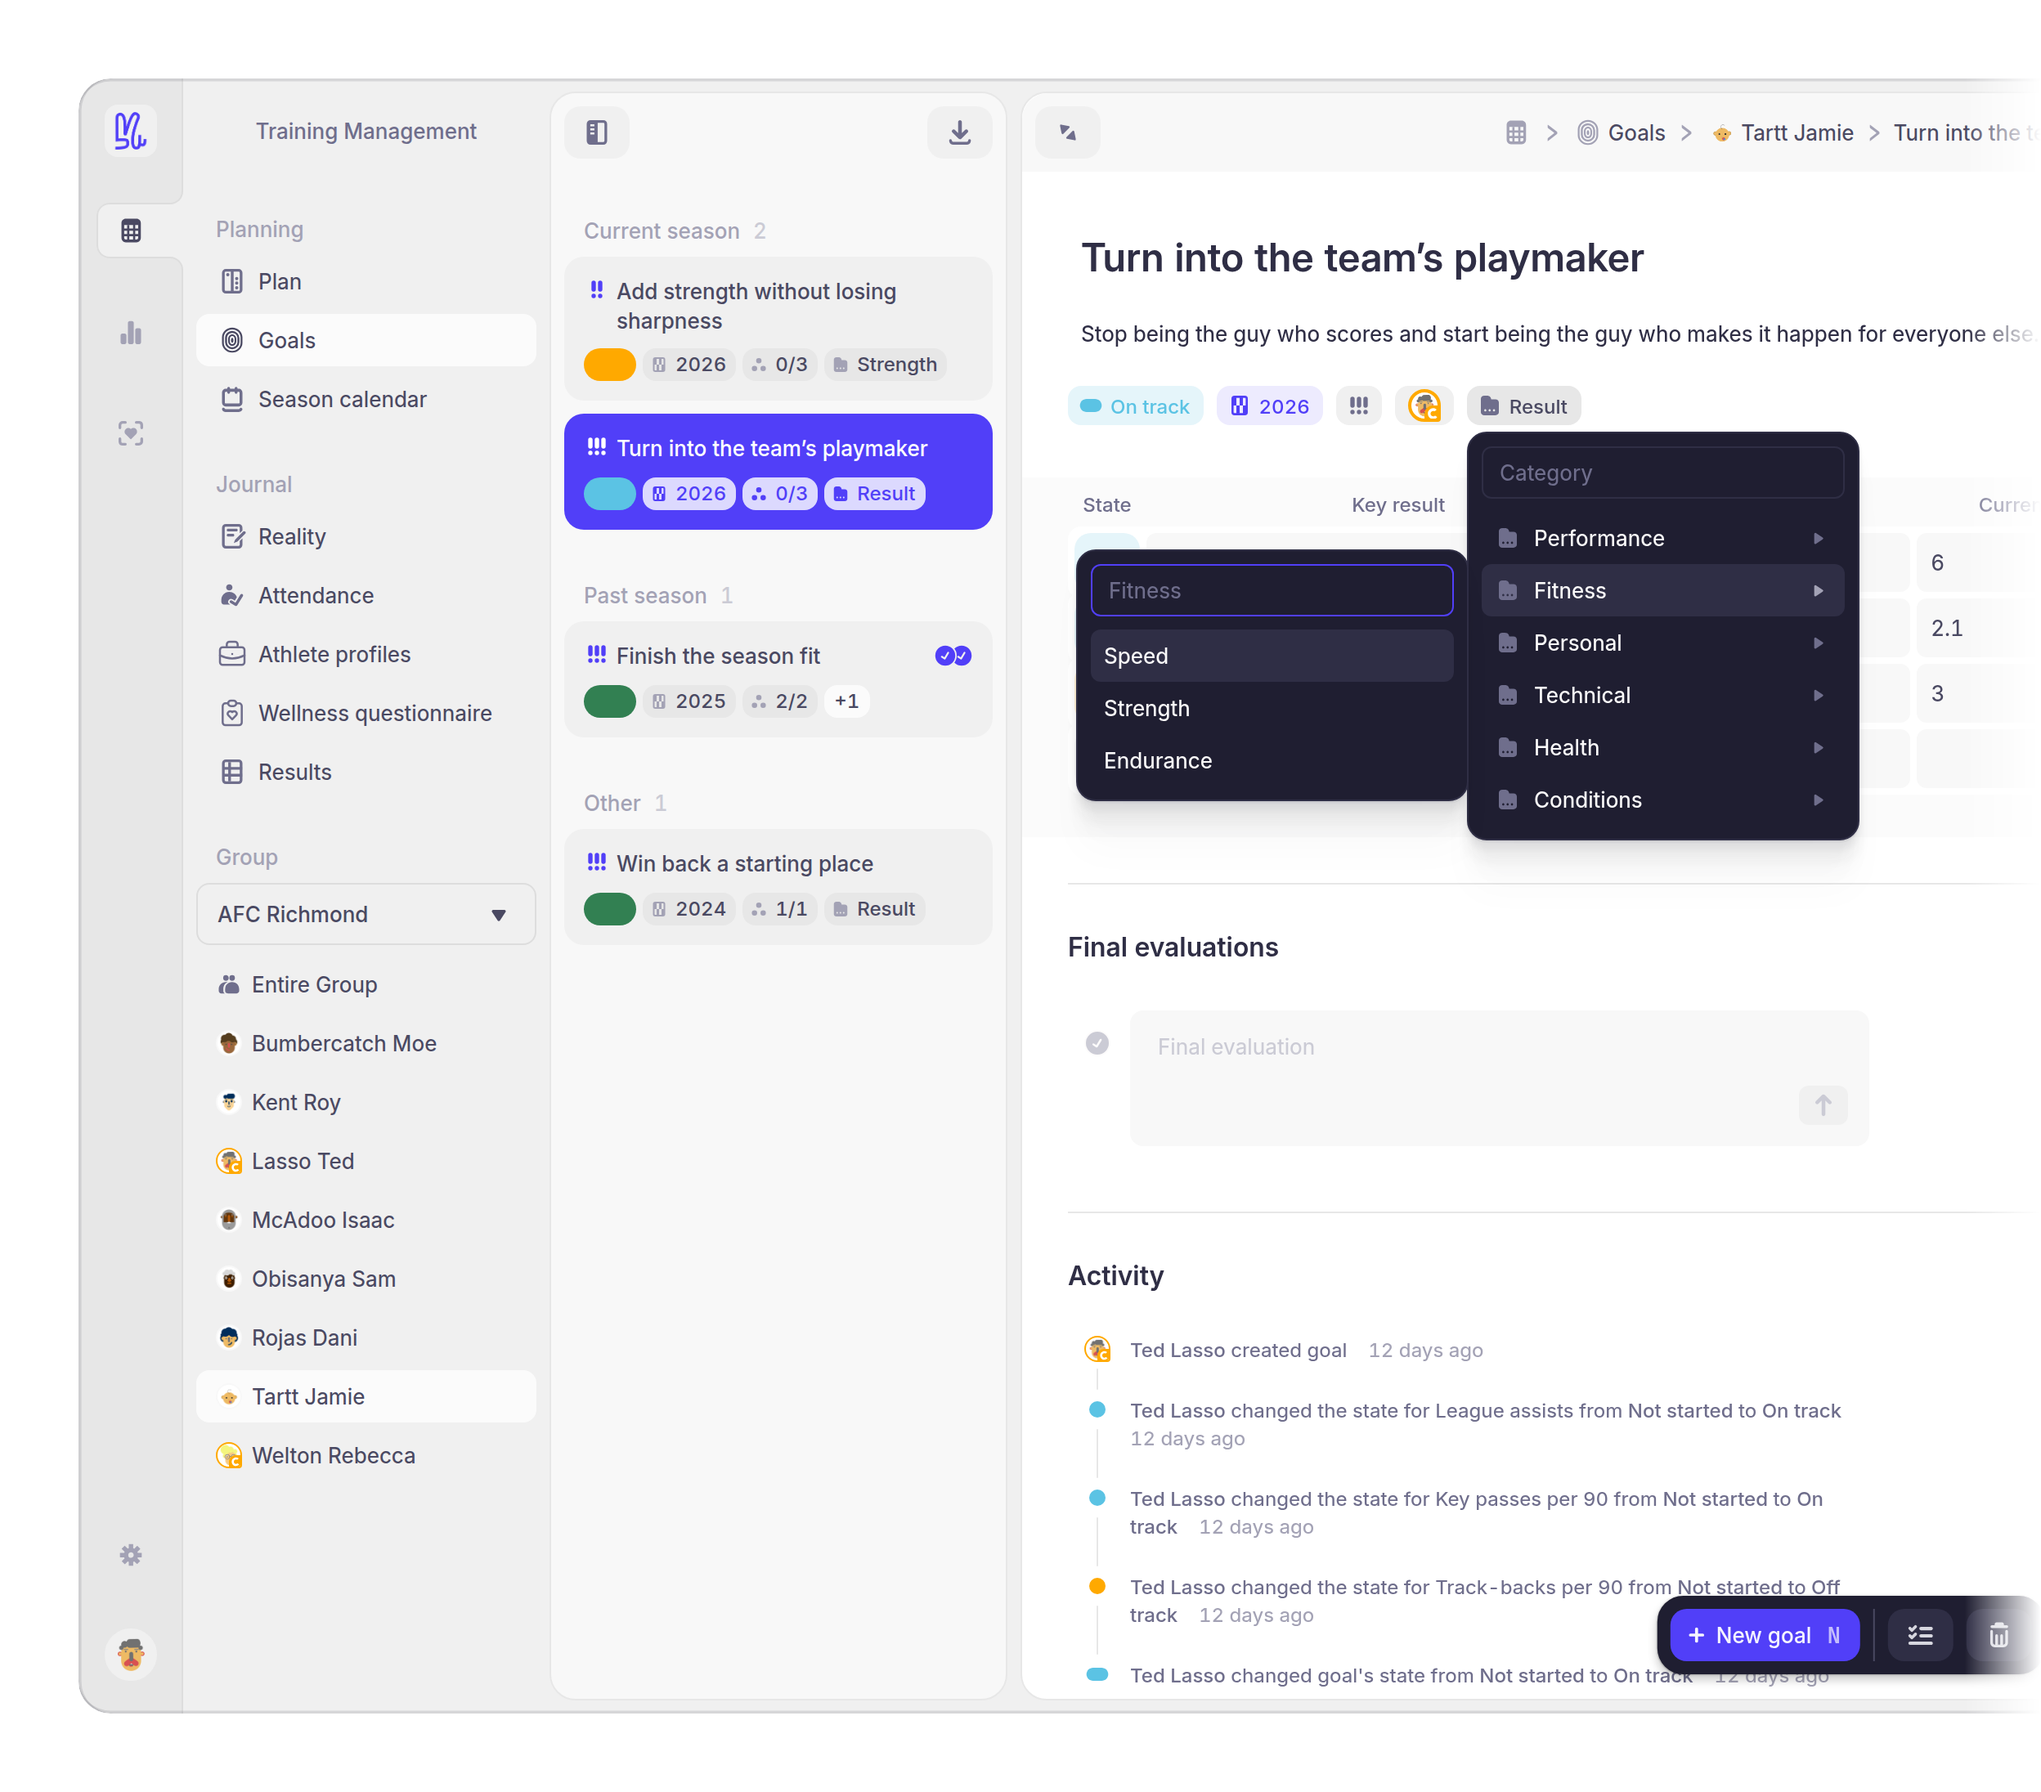
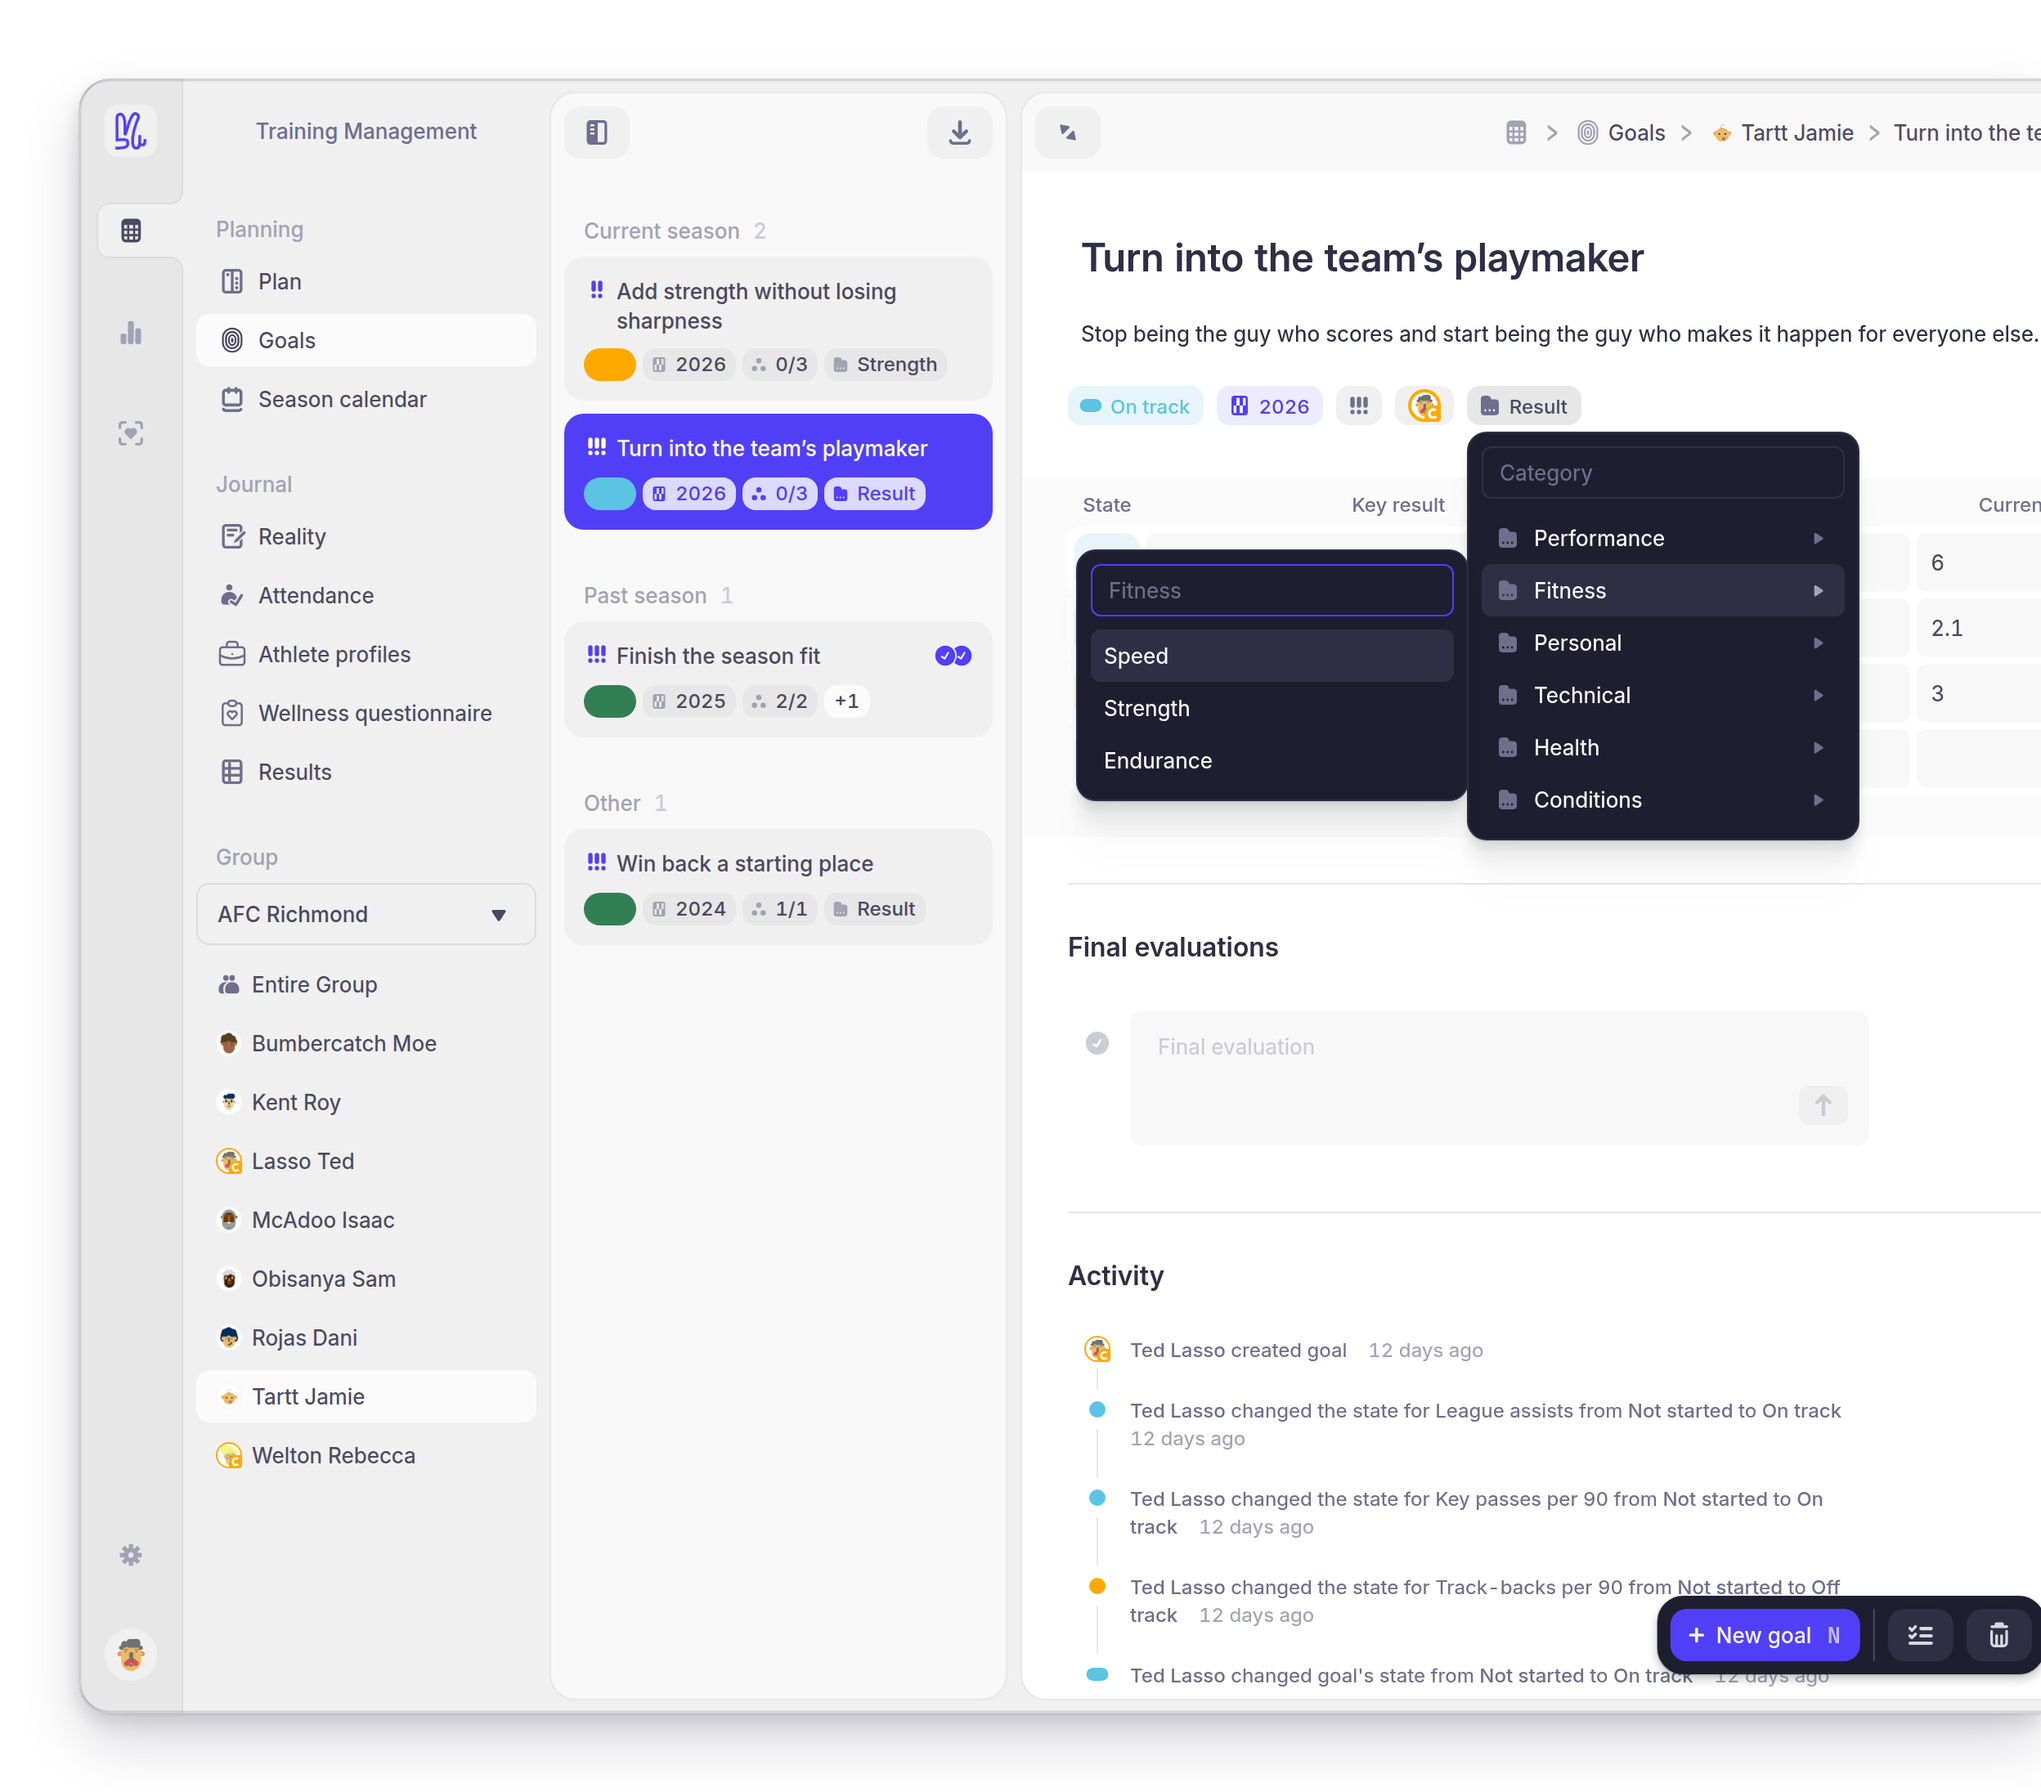
Goals figures: drop the edge fade
Cut edges run to the frame with nothing on them again — the falloff read
as the screenshot dissolving rather than carrying on. The per-edge
hairline stays: it was a separate fix, and drawing a hairline on a cut
edge still implies a border the screen doesn't have.

Claude-Session: https://claude.ai/code/session_01BcTgTxjwzSdWmEF7MFmzuM

Changed region(s): [[0.0312, 0.8686, 1.0, 0.9927], [0.9688, 0.062, 1.0, 0.0931]]

diff --git a/docs-guide/visuals/demo-cast.md b/docs-guide/visuals/demo-cast.md
@@ -84,9 +84,9 @@ type. A fixed 20px corner in a 3200px-wide image displayed in a 700px column arr
 and the window reads square.
 
 **The hairline belongs only to window edges**, never to a cut one — a hairline on a cut edge
-implies a border the screen doesn't have. The cut edges instead get a **soft falloff** (~26 CSS
-px, masked), so a cut reads as "the screen carries on" rather than as a hard stop. Keep it
-gentle enough that nothing at the edge is lost.
+implies a border the screen doesn't have. A cut edge gets nothing: it simply runs to the frame,
+and the bleed does the rest. (A soft falloff on cut edges was tried and rejected — it reads as
+the screenshot dissolving rather than continuing.)
 
 **Round only the real corners.** A corner is rounded when both of its sides are the window's
 own edge; a side that cuts through content stays square and bleeds off the figure. That's what
